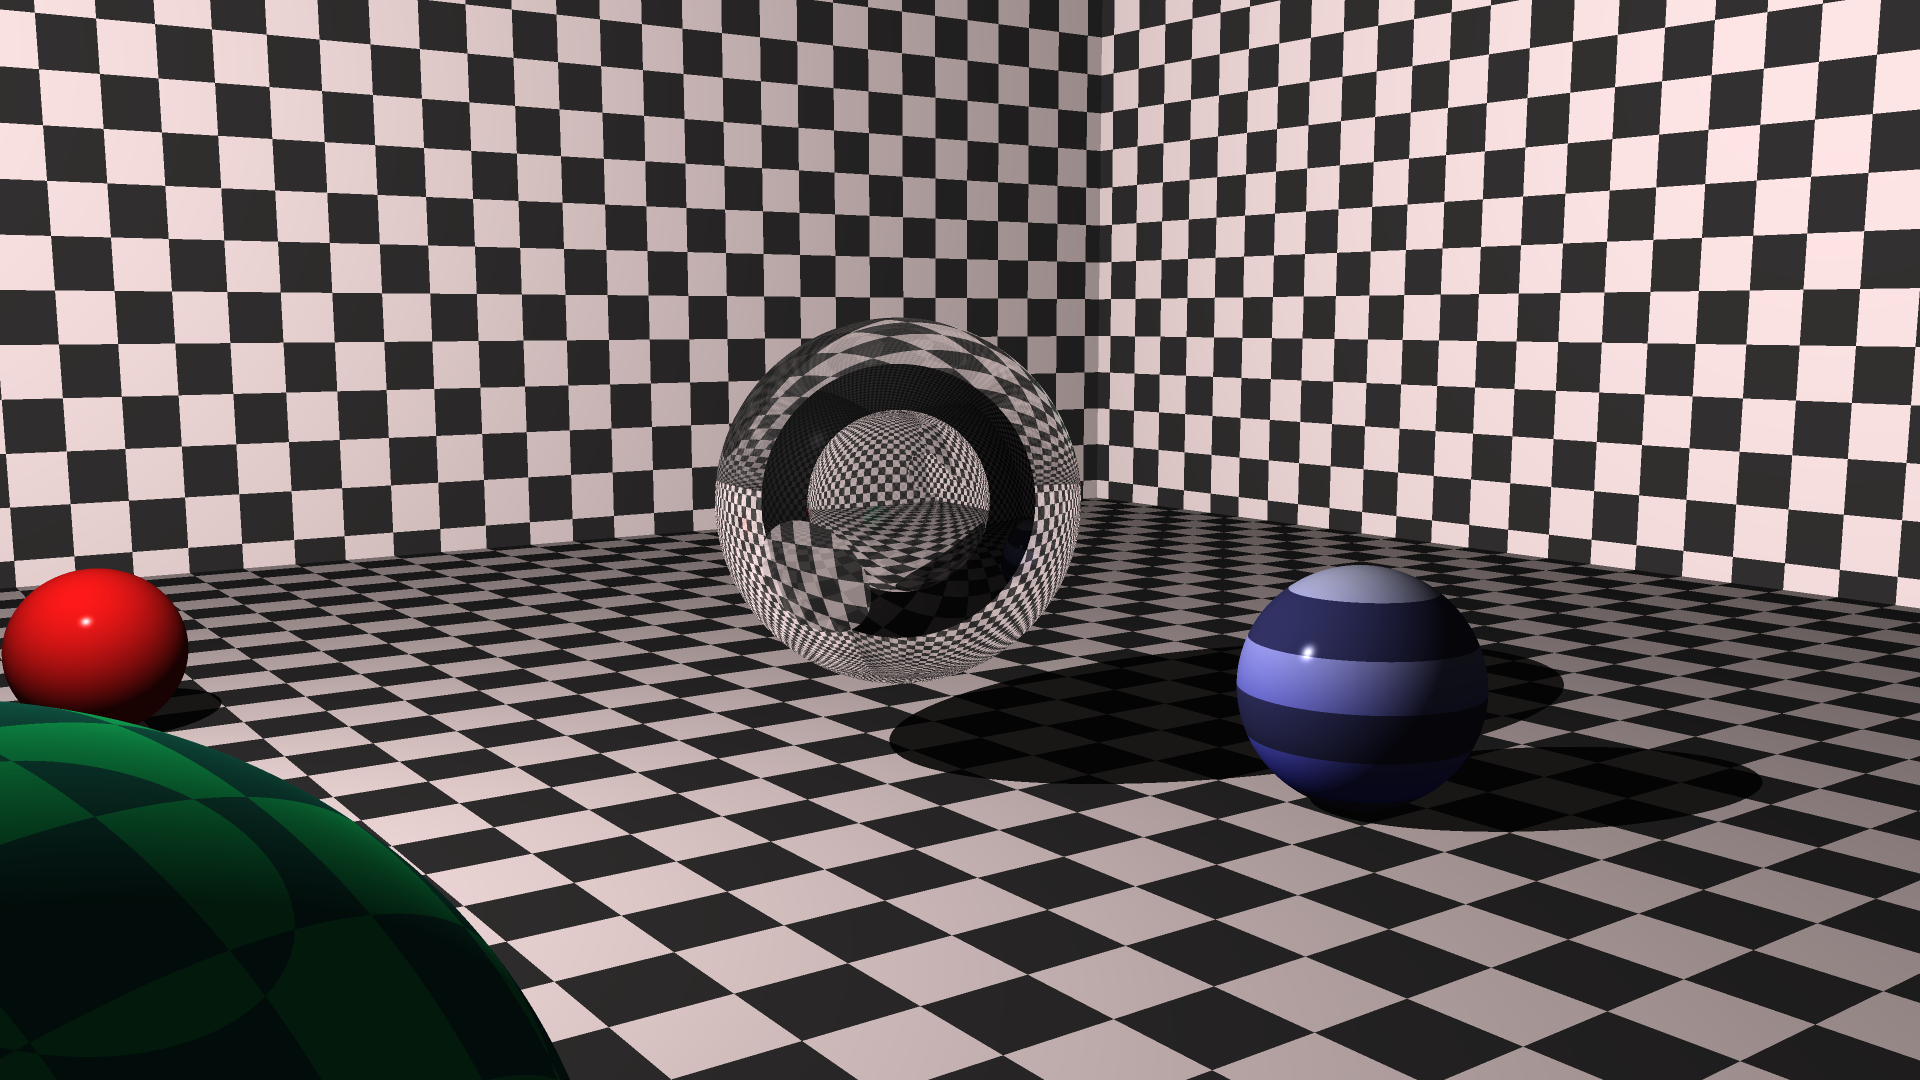
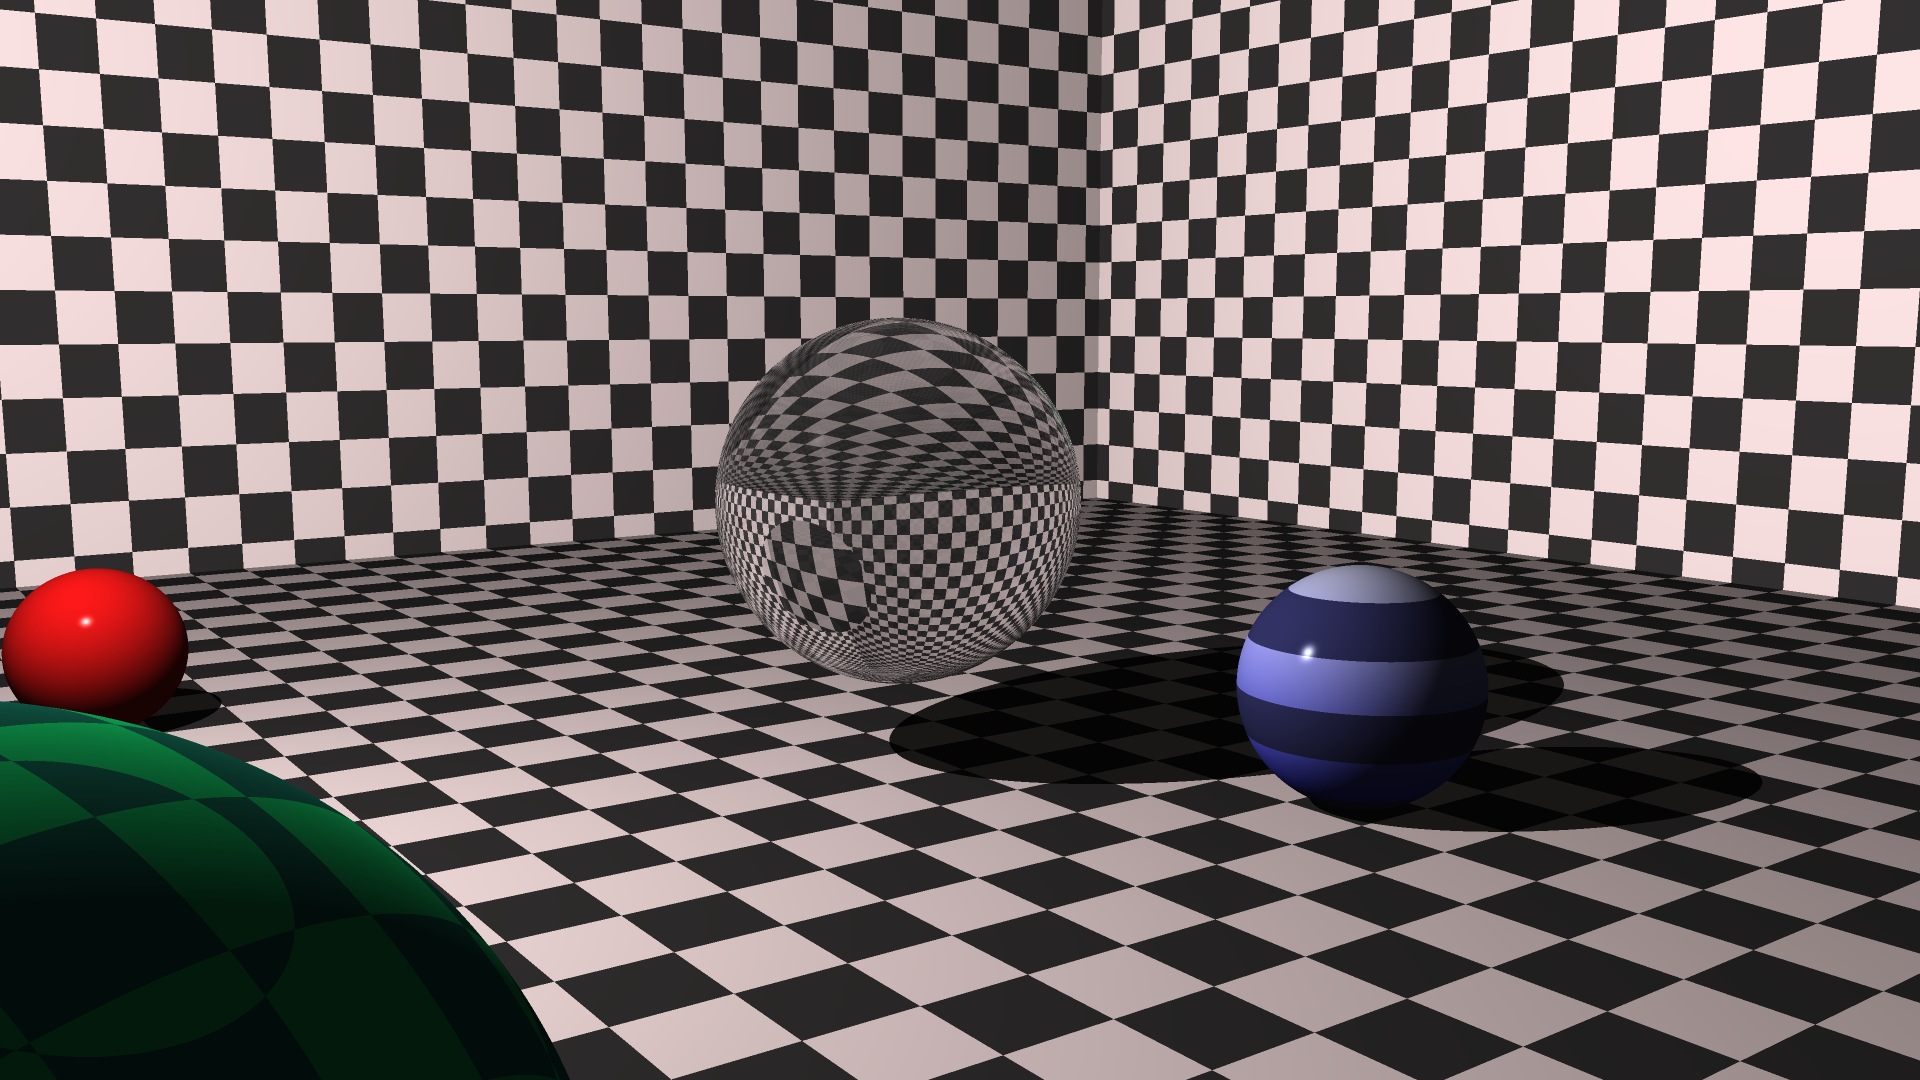
Added Schlick fresnel calculation

Changed region(s): [[0.375, 0.275, 0.5625, 0.6417]]

diff --git a/scene/world.go b/scene/world.go
@@ -55,9 +55,24 @@ func (w *World) Shade(h *ray.Hit, remainingBounce int, inters []ray.Intersection
 	if w.Config.Shadows {
 		h.InShadow = w.IsShadowed(h.OverP)
 	}
-	return prim.Shade(w.Light, h).MultF(1 - prim.GetMaterial().(*shading.PhongMat).Transparency).
-		Add(w.ReflectedColor(h, remainingBounce-1)).
-		Add(w.RefractedColor(h, remainingBounce-1, inters))
+
+	n1, n2 := ComputeRefractIOR(h, inters)
+
+	surface := prim.Shade(w.Light, h).MultF(1 - prim.GetMaterial().(*shading.PhongMat).Transparency)
+	reflected := w.ReflectedColor(h, remainingBounce-1)
+	refracted := w.RefractedColor(h, remainingBounce-1, inters, n1, n2)
+
+	mat := prim.GetMaterial().(*shading.PhongMat)
+
+	if mat.Reflectivity > 0 && mat.Transparency > 0 {
+		reflectance := h.Schlick(n1, n2)
+
+		return surface.
+			Add(reflected.MultF(reflectance)).
+			Add(refracted.MultF(1 - reflectance))
+	}
+
+	return surface.Add(reflected).Add(refracted)
 }
 
 // ColorAt finds a ray's hit and then calls shade at that hit
@@ -85,7 +100,7 @@ func (w *World) ReflectedColor(h *ray.Hit, remainingBounce int) *color.Color {
 	return color.Black
 }
 
-func (w *World) RefractedColor(h *ray.Hit, remainingBounce int, inters []ray.Intersection) *color.Color {
+func (w *World) RefractedColor(h *ray.Hit, remainingBounce int, inters []ray.Intersection, n1, n2 float64) *color.Color {
 	if remainingBounce <= 0 {
 		return color.Black
 	}
@@ -94,15 +109,9 @@ func (w *World) RefractedColor(h *ray.Hit, remainingBounce int, inters []ray.Int
 		if m.Transparency == 0 {
 			return color.Black
 		}
-		n1, n2 := ComputeRefractIOR(h, inters)
-		// compute fresnel vial Snell's Law
 		nRatio := n1 / n2
 		cosI := h.EyeV.DotProd(h.NormalV)
 		sin2T := nRatio * nRatio * (1 - cosI*cosI)
-		// cull total internal reflection
-		if sin2T > 1 {
-			return color.Black
-		}
 		// find the new ray's direction
 		cosT := math.Sqrt(1.0 - sin2T)
 		dir := h.NormalV.Mult(nRatio*cosI - cosT).Sub(h.EyeV.Mult(nRatio))

diff --git a/cmd/main.go b/cmd/main.go
@@ -451,26 +451,26 @@ func refractionScene() {
 			Diffuse:      0.9,
 			Specular:     0.8,
 			Shininess:    300,
-			Reflectivity: .1,
+			Reflectivity: .9,
 			Transparency: .9,
 			IOR:          1.5,
 			Color:        color.NewColor(0.7, 0.7, 0.7),
 			Pattern:      nil,
 		})
 
-	airBall := geometry.NewSphere(
-		matrix.Translation(0, 0, 3),
-		&shading.PhongMat{
-			Ambient:      0.1,
-			Diffuse:      0.9,
-			Specular:     0.8,
-			Shininess:    300,
-			Reflectivity: 0,
-			Transparency: 1,
-			IOR:          1,
-			Color:        color.NewColor(0.7, 0.7, 0.7),
-			Pattern:      nil,
-		})
+	/*airBall := geometry.NewSphere(
+	matrix.Translation(0, 0, 3),
+	&shading.PhongMat{
+		Ambient:      0.1,
+		Diffuse:      0.9,
+		Specular:     0.8,
+		Shininess:    300,
+		Reflectivity: 0,
+		Transparency: 1,
+		IOR:          1,
+		Color:        color.NewColor(0.7, 0.7, 0.7),
+		Pattern:      nil,
+	})*/
 
 	middle := geometry.NewSphere(
 		matrix.Translation(-10, -10, 2).Mult(matrix.Scaling(2, 2, 2)),
@@ -538,7 +538,7 @@ func refractionScene() {
 			blWall,
 			brWall,
 			glassBall,
-			airBall,
+			// airBall,
 			middle,
 			right,
 			left,

diff --git a/ray/hit.go b/ray/hit.go
@@ -88,3 +88,22 @@ func SortI(inters []Intersection) []Intersection {
 	result = append(result, r[j:]...)
 	return result
 }
+
+func (h *Hit) Schlick(n1, n2 float64) float64 {
+	cos := h.EyeV.DotProd(h.NormalV)
+
+	if n1 > n2 {
+		n := n1 / n2
+
+		sin2t := n * n * (1 - cos*cos)
+
+		if sin2t > 1 {
+			return 1
+		}
+
+		cos = math.Sqrt(1 - sin2t)
+	}
+	r0 := (n1 - n2) / (n1 + n2)
+	r0 *= r0
+	return r0 + (1-r0)*math.Pow(1-cos, 5)
+}
